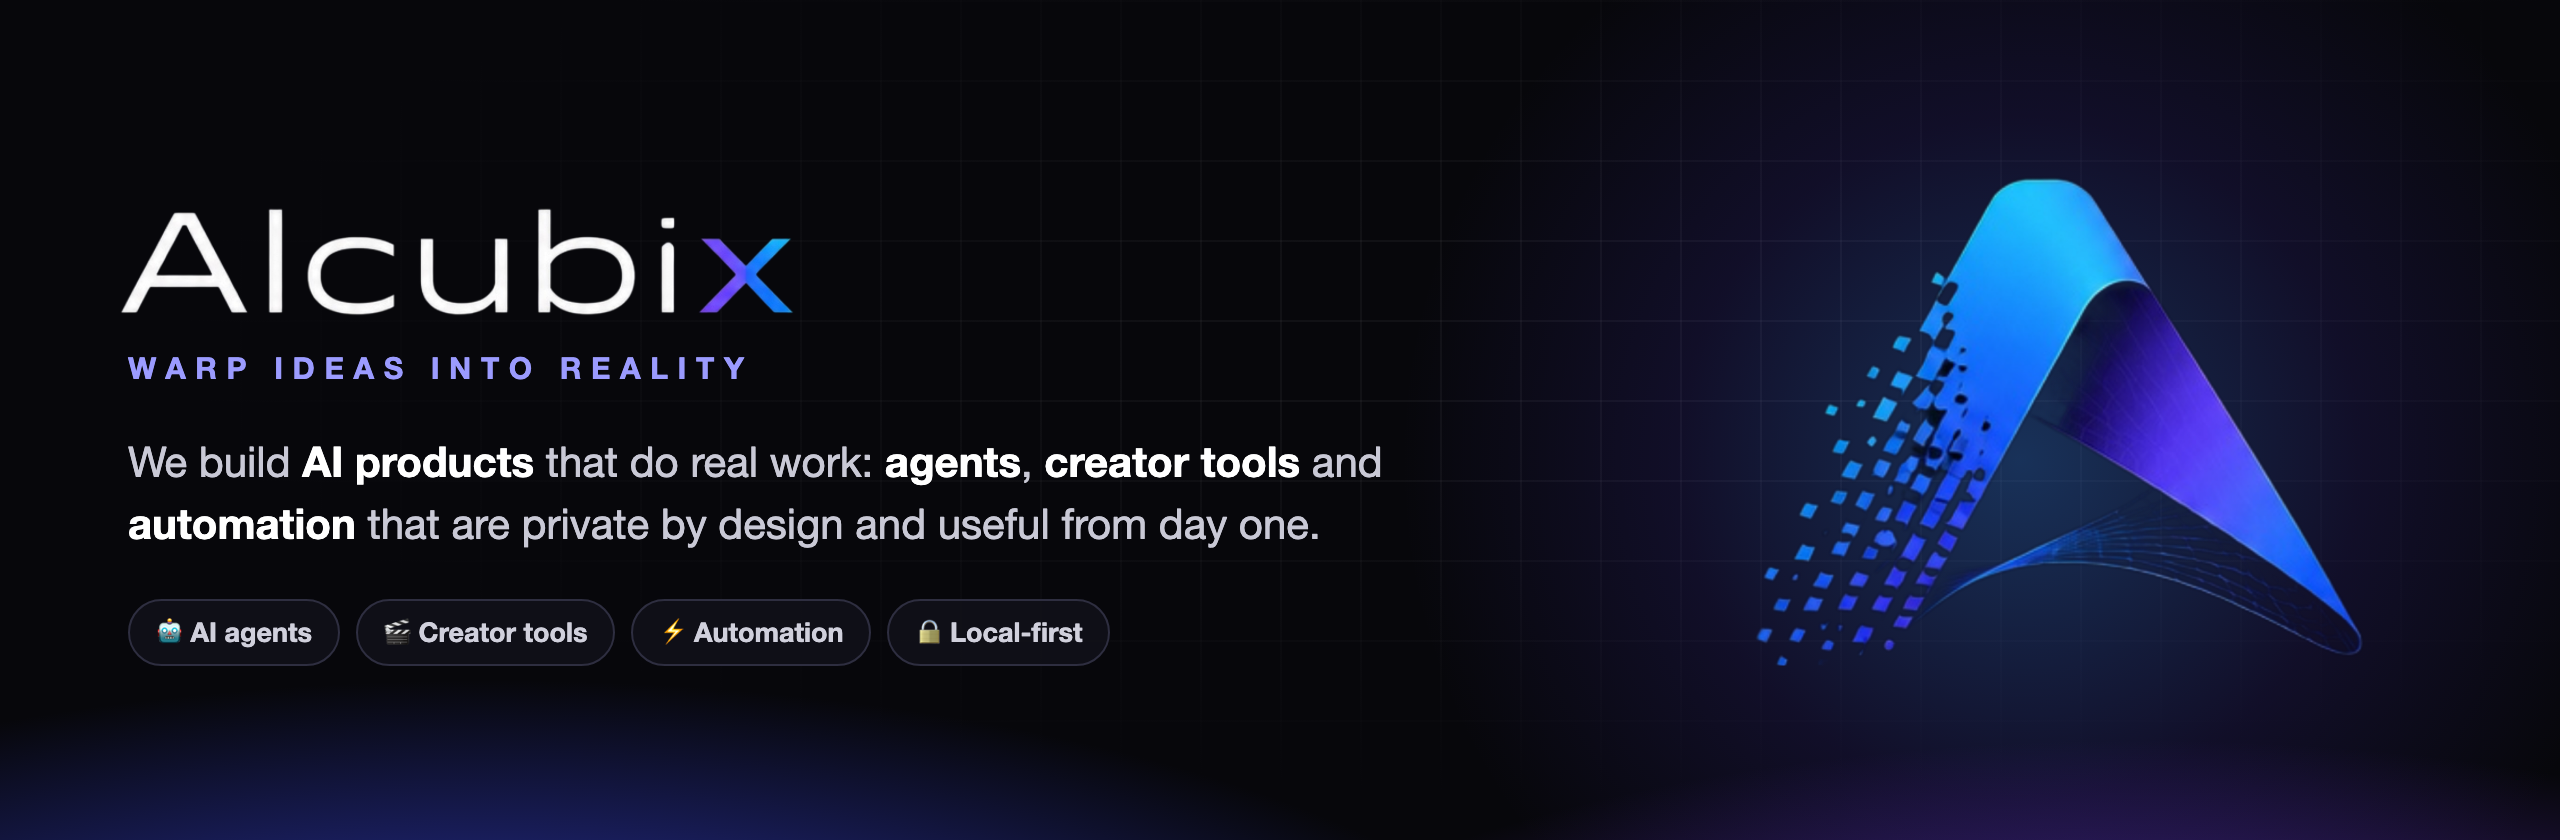
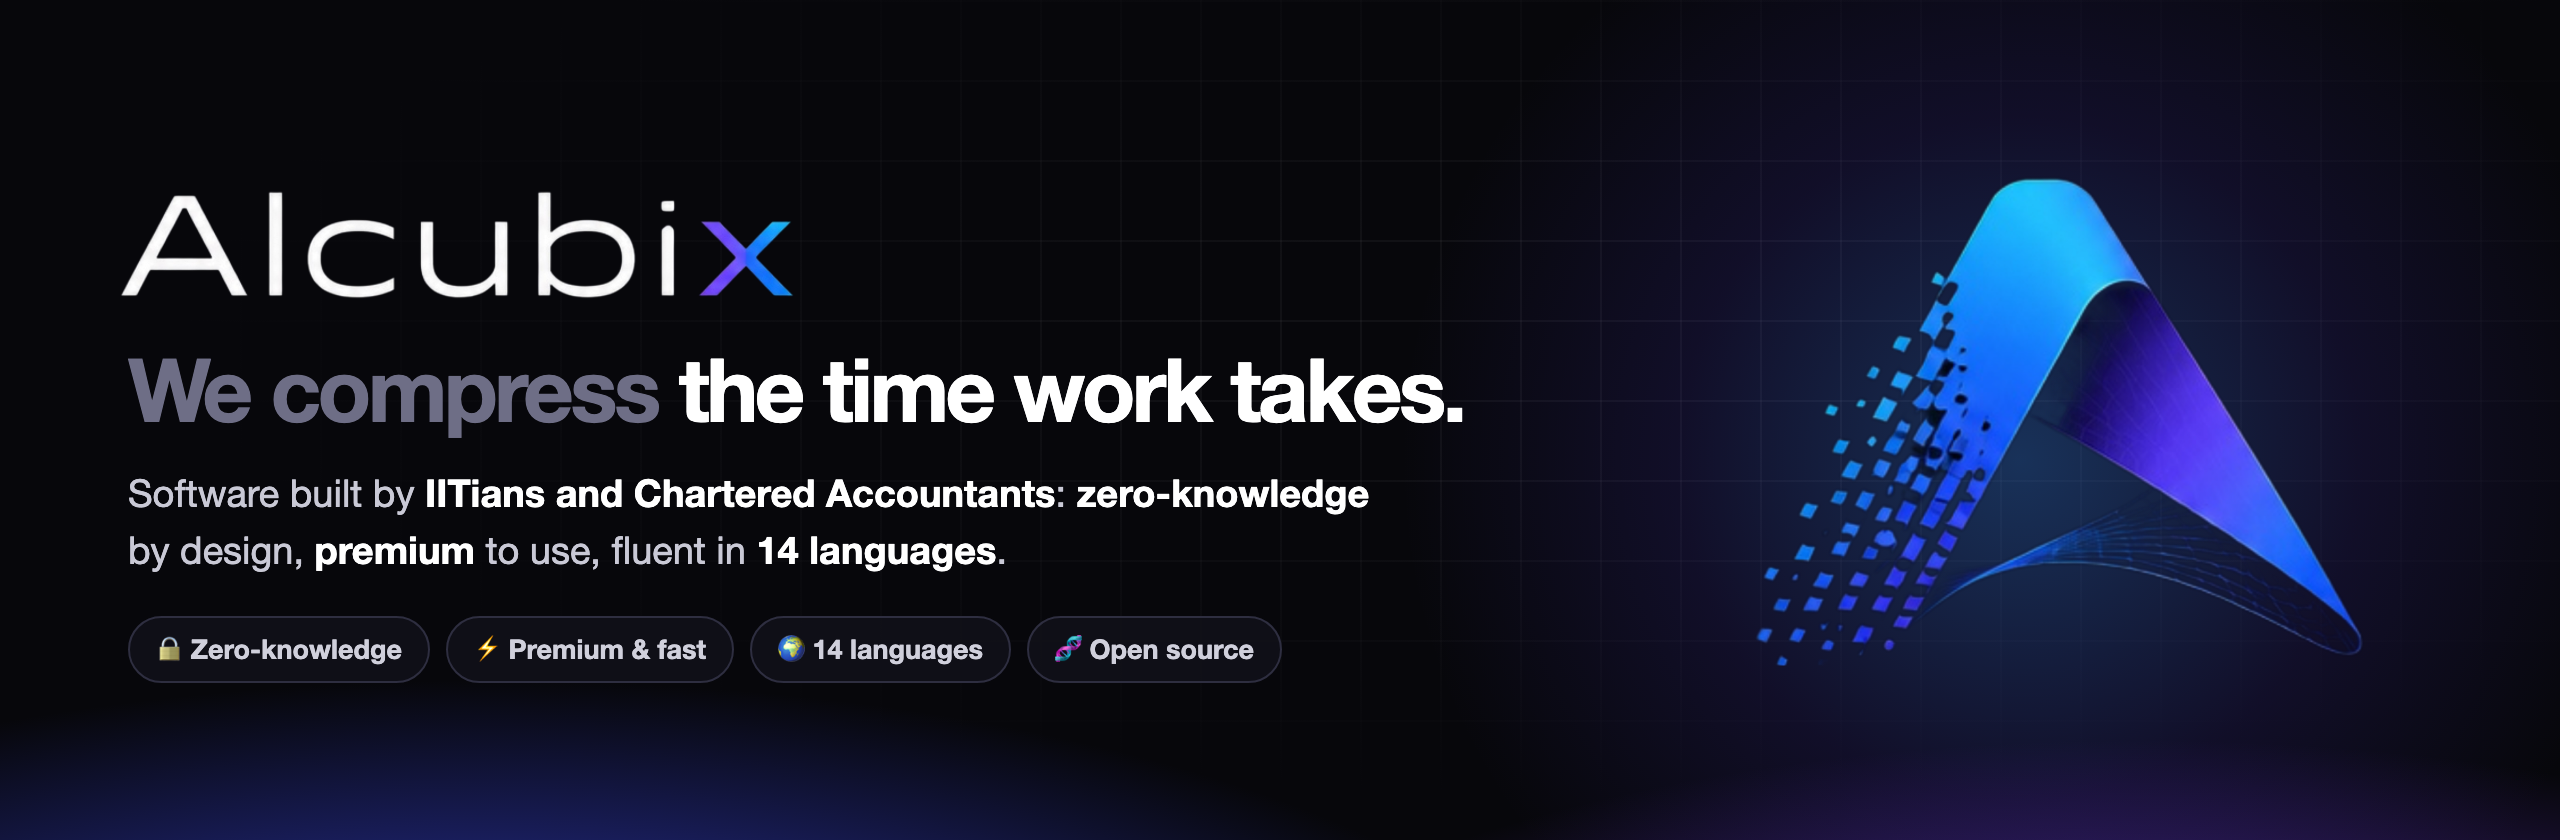
Profile: alcubix.com messaging, TaskFlow flagship, contact

Changed region(s): [[0.0312, 0.4024, 0.5625, 0.681], [0.0625, 0.7119, 0.5, 0.8048], [0.0312, 0.2167, 0.3125, 0.3714]]

diff --git a/README.md b/README.md
@@ -1,54 +1,60 @@
 <p align="center">
-  <img src="assets/header.png" alt="AlcubiX: warp ideas into reality" width="100%">
+  <a href="https://alcubix.com"><img src="assets/header.png" alt="AlcubiX: we compress the time work takes" width="100%"></a>
 </p>
 
 <p align="center">
-  <a href="https://github.com/AlcubiX/replydna"><img alt="New: ReplyDNA v1.0" src="https://img.shields.io/badge/NEW-ReplyDNA%20v1.0-3D4BFF?style=for-the-badge"></a>
-  <img alt="AI agents" src="https://img.shields.io/badge/AI-agents-7B3CFF?style=for-the-badge">
-  <img alt="Open source" src="https://img.shields.io/badge/open-source-111118?style=for-the-badge">
-  <img alt="Privacy first" src="https://img.shields.io/badge/privacy-first-2ED47A?style=for-the-badge">
+  <a href="https://alcubix.com"><img alt="alcubix.com" src="https://img.shields.io/badge/alcubix.com-3D4BFF?style=for-the-badge&logo=googlechrome&logoColor=white"></a>
+  <a href="https://taskflow.alcubix.com"><img alt="TaskFlow" src="https://img.shields.io/badge/TaskFlow-flagship-22D3EE?style=for-the-badge"></a>
+  <a href="https://github.com/AlcubiX/replydna"><img alt="ReplyDNA" src="https://img.shields.io/badge/ReplyDNA-open%20source-7B3CFF?style=for-the-badge"></a>
+  <a href="mailto:hello@alcubix.com"><img alt="hello@alcubix.com" src="https://img.shields.io/badge/hello@alcubix.com-111118?style=for-the-badge&logo=maildotru&logoColor=white"></a>
 </p>
 
-### 👋 Hi, we're AlcubiX
+### 👋 We're AlcubiX
 
-A product studio that turns ideas into working AI software, fast. Every product we ship has to pass three tests:
+**Alcubi(erre) + (Matri)X.** Named after the Alcubierre warp drive, which contracts space in front of a ship and expands it behind.
+We build software that does the same to a working day: **the busywork ahead of you shrinks, and the room to think behind you grows.**
 
-- ⏱ **It saves real hours**, not demo minutes.
-- 🔒 **It respects people's data.** Local-first wherever possible.
-- ✨ **It feels premium to use.** Design is part of the product, not decoration.
-
-## ★ Featured
-
-<a href="https://github.com/AlcubiX/replydna"><img src="assets/featured-replydna.png" alt="ReplyDNA" width="100%"></a>
-
-**[ReplyDNA](https://github.com/AlcubiX/replydna)** is an open-source AI YouTube comment assistant. It learns a creator's voice from their own videos,
-replies in every viewer's language (English, Español, हिंदी, Hinglish …), holds scam accounts, finds mentions on other channels,
-and delivers a monthly interactive report. Draft mode by default: the creator approves everything.
-&nbsp;[**Live demo →**](https://alcubix.github.io/replydna/demo/) · [**Try it in 30 seconds →**](https://github.com/AlcubiX/replydna#-quick-start)
-
-## What we build
+A collective of **IITians and Chartered Accountants**, building the tools our own firms run on. Three rules, no exceptions:
 
 | | |
 |---|---|
-| 🤖 **AI agents** | Assistants that do real work inside the tools people already use |
-| 🎬 **Creator tools** | Comments, community and growth analytics for YouTubers |
-| ⚡ **Automation** | Repetitive work, gone: inboxes, reports, follow-ups |
-| 🔒 **Local-first apps** | Fast desktop and mobile apps that keep your data on your device |
+| 🔒 **Zero-knowledge by design** | Our servers hold ciphertext and a seat count, nothing else. We built it so looking is useless. |
+| ⚡ **Premium, fast, legible** | Software you live in for eight hours a day should feel like it was built by people who cared about hour nine. |
+| 🌍 **Yours in 14 languages** | Any country, any timezone, right-to-left included. |
+
+## ◆ Flagship
+
+<a href="https://taskflow.alcubix.com"><img src="assets/featured-taskflow.png" alt="TaskFlow: run your whole firm, we see nothing" width="100%"></a>
+
+**[TaskFlow](https://taskflow.alcubix.com)** is the zero-knowledge workspace for professional firms: tasks, clients, billing, attendance and chat,
+sealed with keys that never leave your devices. One license on Windows, macOS, Linux, Android and iOS.
+&nbsp;[**Explore TaskFlow →**](https://taskflow.alcubix.com) · [**Download →**](https://alcubix.com)
+
+## ★ Open source
+
+<a href="https://github.com/AlcubiX/replydna"><img src="assets/featured-replydna.png" alt="ReplyDNA" width="100%"></a>
+
+**[ReplyDNA](https://github.com/AlcubiX/replydna)** is an AI YouTube comment assistant. It learns a creator's voice from their own videos,
+replies in every viewer's language (English, Español, हिंदी, Hinglish …), holds scam accounts and delivers a monthly report.
+Draft mode by default: the creator approves everything.
+&nbsp;[**Live demo →**](https://alcubix.github.io/replydna/demo/) · [**Try it in 30 seconds →**](https://github.com/AlcubiX/replydna#-quick-start)
 
 ## Toolbox
 
 <p>
+  <img alt="Tauri" src="https://img.shields.io/badge/Tauri-24C8D8?style=flat-square&logo=tauri&logoColor=white">
   <img alt="Python" src="https://img.shields.io/badge/Python-3776AB?style=flat-square&logo=python&logoColor=white">
   <img alt="JavaScript" src="https://img.shields.io/badge/JavaScript-F7DF1E?style=flat-square&logo=javascript&logoColor=black">
+  <img alt="Android" src="https://img.shields.io/badge/Android-3DDC84?style=flat-square&logo=android&logoColor=white">
+  <img alt="iOS" src="https://img.shields.io/badge/iOS-000000?style=flat-square&logo=apple&logoColor=white">
   <img alt="Claude" src="https://img.shields.io/badge/Claude-D97757?style=flat-square&logo=anthropic&logoColor=white">
   <img alt="SQLite" src="https://img.shields.io/badge/SQLite-003B57?style=flat-square&logo=sqlite&logoColor=white">
-  <img alt="Tauri" src="https://img.shields.io/badge/Tauri-24C8D8?style=flat-square&logo=tauri&logoColor=white">
-  <img alt="YouTube API" src="https://img.shields.io/badge/YouTube%20API-FF0000?style=flat-square&logo=youtube&logoColor=white">
-  <img alt="HTML5" src="https://img.shields.io/badge/HTML5-E34F26?style=flat-square&logo=html5&logoColor=white">
+  <img alt="End-to-end encryption" src="https://img.shields.io/badge/E2E-encryption-2ED47A?style=flat-square&logo=letsencrypt&logoColor=white">
 </p>
 
-## Let's build
+## Talk to the people who build it
 
-⭐ Star [ReplyDNA](https://github.com/AlcubiX/replydna) if it helps you · 💬 [Open an issue](https://github.com/AlcubiX/replydna/issues) to say hi, request a feature or report a bug.
+No sales layer, no ticket queue: mail lands with the team that ships the product.
+📫 **[hello@alcubix.com](mailto:hello@alcubix.com)** · 🌐 **[alcubix.com](https://alcubix.com)** · ⭐ Star [ReplyDNA](https://github.com/AlcubiX/replydna) if it helps you.
 
-<p align="center"><sub>© 2026 AlcubiX · Warp ideas into reality</sub></p>
+<p align="center"><sub>© 2026 ALCUBIX Private Limited · Delhi, India · We compress the time work takes.</sub></p>
